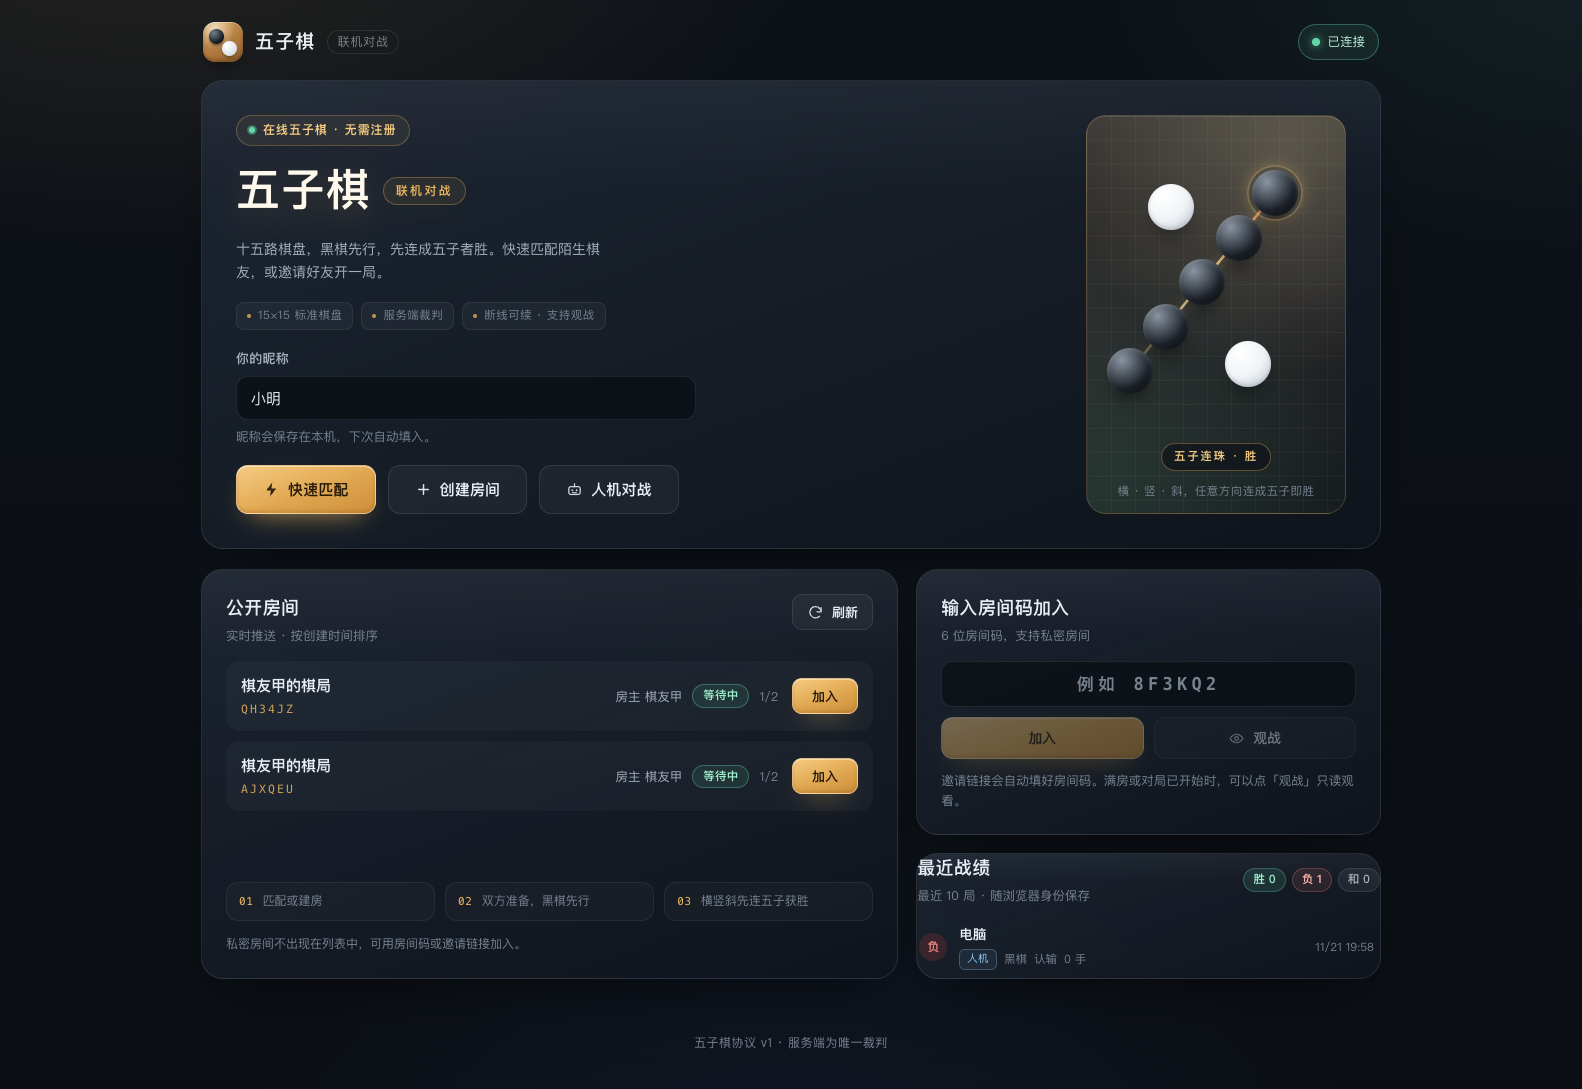
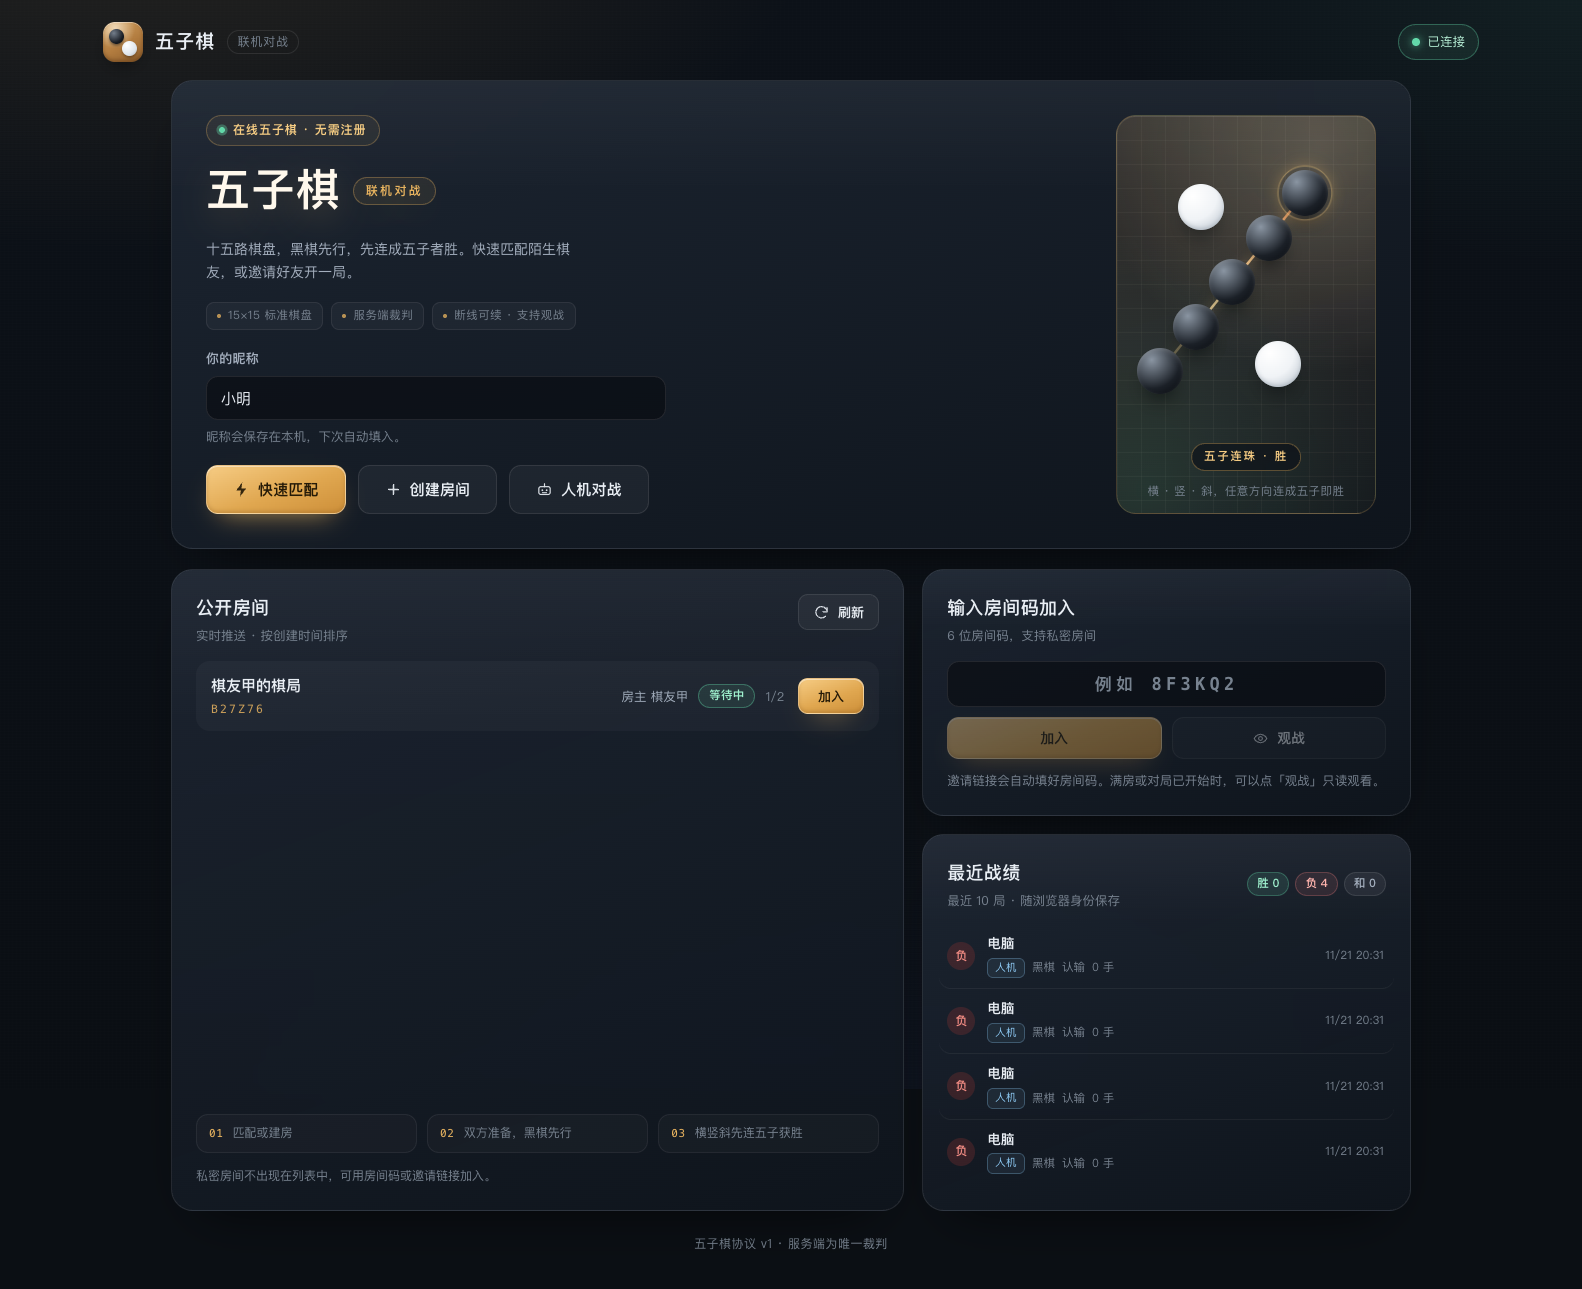
style: 优化最近战绩卡片内边距与行对齐
- records-card 补上卡片内边距（之前内容贴边）
- 战绩列表左右与标题对齐，行 hover 高亮、分隔线、滚动条样式
- 移动端收窄内边距并保持时间列隐藏；更新大厅截图

diff --git a/web/src/styles.css b/web/src/styles.css
@@ -2778,3 +2778,93 @@ button {
     max-width: none;
   }
 }
+
+/* ---------- 最近战绩：与卡片内边距对齐，避免贴边 ---------- */
+.records-card {
+  padding: clamp(16px, 2.4vw, 24px);
+}
+
+.records-head {
+  gap: 12px;
+}
+
+.record-list {
+  margin: 14px -8px 0;
+  padding: 0 8px 2px;
+  max-height: 330px;
+  overflow-y: auto;
+  scrollbar-width: thin;
+  scrollbar-color: rgba(233, 180, 95, 0.35) transparent;
+}
+
+.record-list::-webkit-scrollbar {
+  width: 6px;
+}
+
+.record-list::-webkit-scrollbar-thumb {
+  border-radius: 999px;
+  background: rgba(233, 180, 95, 0.28);
+}
+
+.record-row {
+  padding: 10px 8px;
+  margin: 0;
+  border-radius: 12px;
+  border-bottom: 1px solid rgba(255, 255, 255, 0.055);
+  transition: background 0.18s ease;
+}
+
+.record-row:last-child {
+  border-bottom: none;
+  padding-bottom: 12px;
+}
+
+.record-row:hover {
+  background: rgba(255, 255, 255, 0.032);
+}
+
+.record-time {
+  padding-right: 2px;
+}
+
+.record-empty {
+  margin: 14px 0 2px;
+}
+
+@media (max-width: 640px) {
+  .records-card {
+    padding: 16px;
+  }
+
+  .record-list {
+    margin-left: 0;
+    margin-right: 0;
+    padding-left: 0;
+    padding-right: 0;
+  }
+
+  .record-row {
+    padding: 9px 4px;
+  }
+}
+
+/* 战绩列表与标题左对齐，避免行内容比标题多缩进 */
+.record-list {
+  margin: 14px -8px 0;
+  padding: 0;
+}
+
+.record-row {
+  padding: 10px 8px;
+}
+
+@media (max-width: 640px) {
+  .record-list {
+    margin: 12px -8px 0;
+    padding: 0;
+  }
+
+  .record-row {
+    padding: 9px 8px;
+  }
+}
